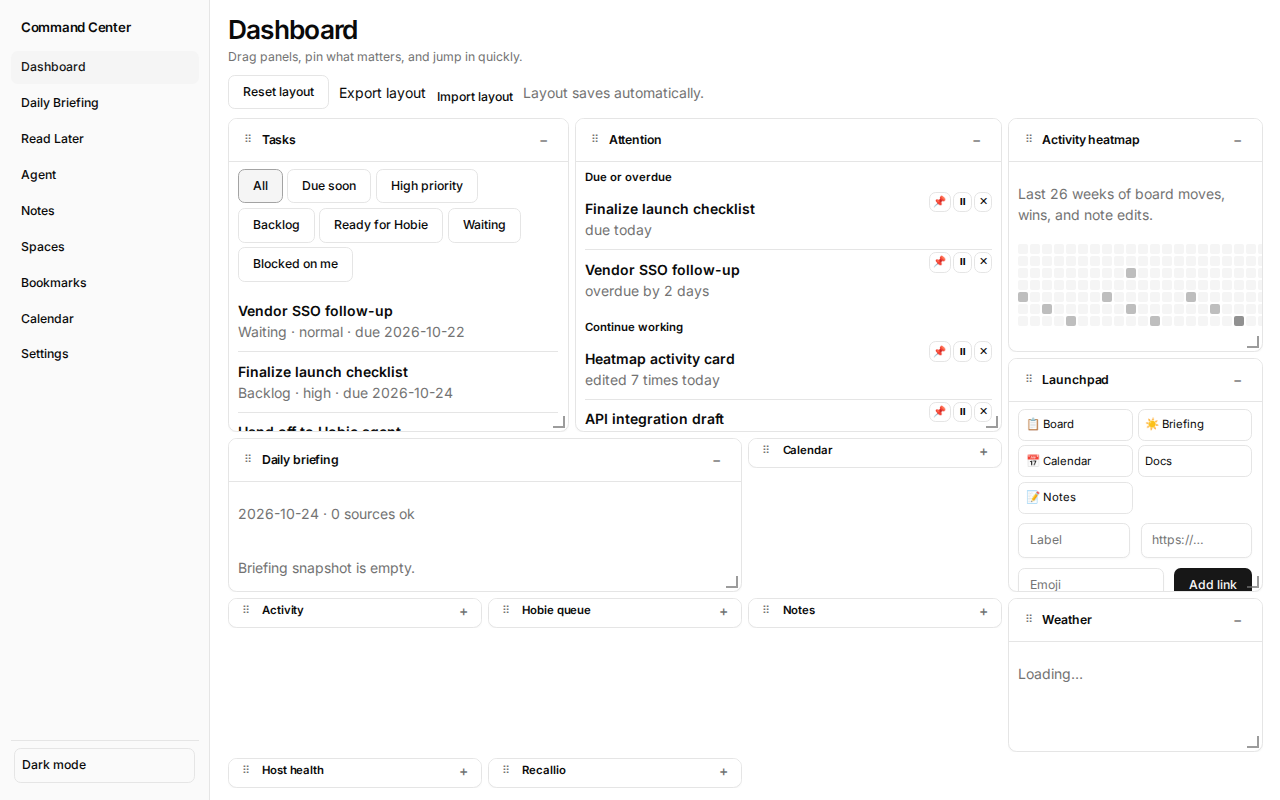
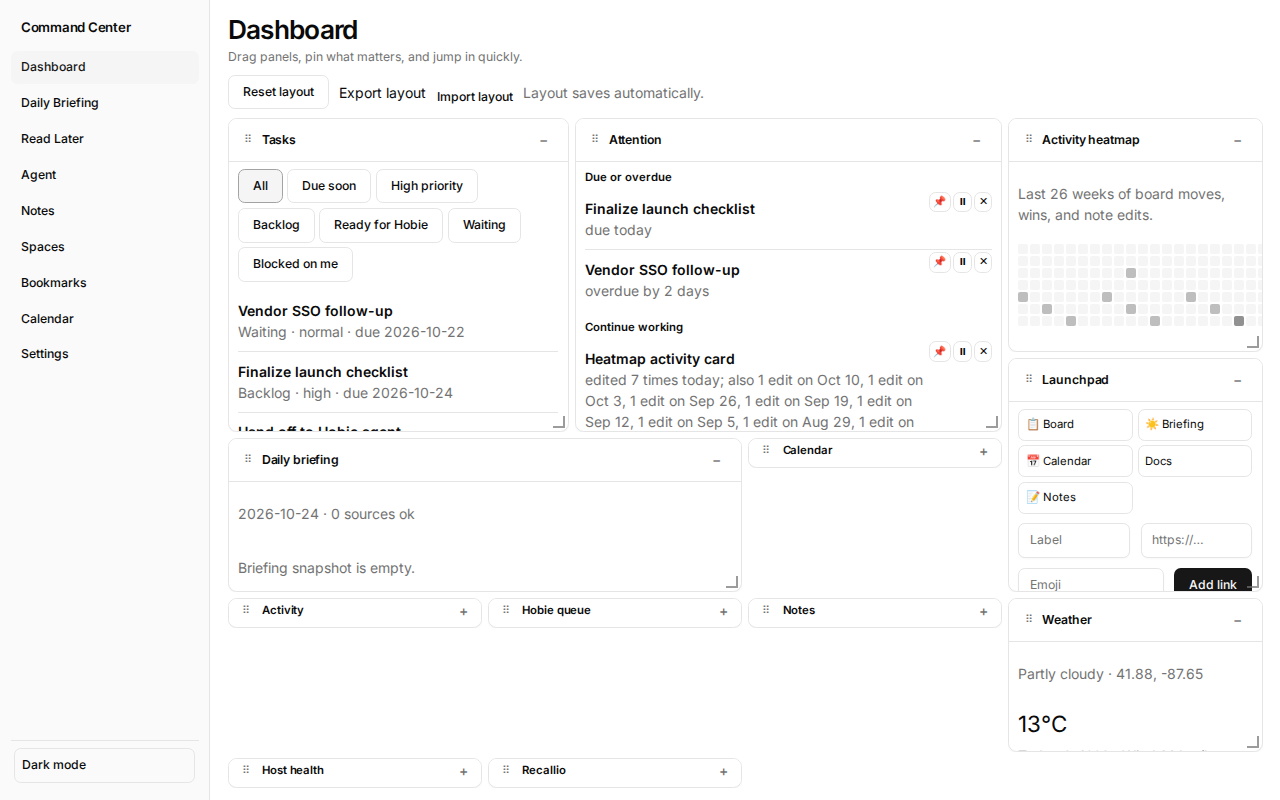
Attention: dedupe continue sessions per item; taller capture
Merge older sessions into one continue row; fix worked-on wording;
attention screenshot h:20 with Rediscover reason visible.

Changed region(s): [[0.4375, 0.4688, 0.7812, 0.5312], [0.7812, 0.8125, 0.8438, 0.9062], [0.875, 0.8125, 0.9375, 0.8438]]

diff --git a/apps/server/src/attention/sections.ts b/apps/server/src/attention/sections.ts
@@ -2,7 +2,7 @@ import { DONE, type BoardCard } from "../board/types";
 import type { KnowledgeNote, KnowledgeSource } from "../notes/store";
 import type { Win } from "../wins/types";
 import { pickRediscover, daysBetween, type StaleCandidate } from "./rediscover";
-import { buildSessions, sessionPrimaryItem, sessionReason } from "./sessions";
+import { buildSessions, mergedSessionReason, sessionPrimaryItem, type WorkSession } from "./sessions";
 import { applyPinnedFirst, takeSectionItems } from "./rank";
 import type { AttentionItem, AttentionSection, TimelineEvent } from "./types";
 
@@ -110,12 +110,25 @@ export function composeAttentionSections(input: ComposeInput): AttentionSection[
   });
 
   const sessions = buildSessions(input.timeline).sort((a, b) => b.end.localeCompare(a.end));
-  const continueItems: AttentionItem[] = [];
+  const sessionsByItem = new Map<string, WorkSession[]>();
   for (const session of sessions) {
     const primary = sessionPrimaryItem(session);
     const id = primary.kind === "note" ? `note:${primary.refId}` : `card:${primary.refId}`;
+    const list = sessionsByItem.get(id) ?? [];
+    list.push(session);
+    sessionsByItem.set(id, list);
+  }
+  const continueItems: AttentionItem[] = [];
+  const grouped = [...sessionsByItem.entries()]
+    .map(([id, itemSessions]) => ({
+      id,
+      sessions: itemSessions.sort((a, b) => b.end.localeCompare(a.end)),
+    }))
+    .sort((a, b) => b.sessions[0]!.end.localeCompare(a.sessions[0]!.end));
+  for (const { id, sessions: itemSessions } of grouped) {
     if (used.has(id)) continue;
-    const reason = sessionReason(session, input.todayYmd, input.tz);
+    const primary = sessionPrimaryItem(itemSessions[0]!);
+    const reason = mergedSessionReason(itemSessions, input.todayYmd, input.tz);
     if (primary.kind === "note") {
       const note = input.notes.find((n) => n.id === primary.refId);
       if (note) continueItems.push(noteItem(note, reason));

diff --git a/apps/server/src/attention/sessions.ts b/apps/server/src/attention/sessions.ts
@@ -37,8 +37,31 @@ export function sessionReason(session: WorkSession, todayYmd: string, tz: string
   if (day === todayYmd) {
     return count === 1 ? "edited once today" : `edited ${count} times today`;
   }
+  const dateLabel = new Intl.DateTimeFormat("en-US", { timeZone: tz, month: "short", day: "numeric" }).format(
+    new Date(session.end),
+  );
   const when = new Date(session.end).toLocaleString(undefined, { month: "short", day: "numeric", hour: "numeric", minute: "2-digit" });
-  return count === 1 ? `worked on at ${when}` : `${count} edits ending ${when}`;
+  return count === 1 ? `worked on ${dateLabel}` : `${count} edits ending ${when}`;
+}
+
+function sessionSummaryLine(session: WorkSession, todayYmd: string, tz: string): string {
+  const count = session.events.length;
+  const day = new Intl.DateTimeFormat("en-CA", { timeZone: tz }).format(new Date(session.end));
+  if (day === todayYmd) return count === 1 ? "1 edit earlier today" : `${count} edits earlier today`;
+  const dateLabel = new Intl.DateTimeFormat("en-US", { timeZone: tz, month: "short", day: "numeric" }).format(
+    new Date(session.end),
+  );
+  return count === 1 ? `1 edit on ${dateLabel}` : `${count} edits on ${dateLabel}`;
+}
+
+/** Merge older sessions into the reason for the most recent session on the same item. */
+export function mergedSessionReason(sessions: WorkSession[], todayYmd: string, tz: string): string {
+  const sorted = [...sessions].sort((a, b) => b.end.localeCompare(a.end));
+  const latest = sorted[0]!;
+  let reason = sessionReason(latest, todayYmd, tz);
+  if (sorted.length === 1) return reason;
+  const also = sorted.slice(1).map((s) => sessionSummaryLine(s, todayYmd, tz));
+  return `${reason}; also ${also.join(", ")}`;
 }
 
 export function sessionPrimaryItem(session: WorkSession): TimelineEvent {

diff --git a/apps/server/scripts/capture-ui-screenshots.ts b/apps/server/scripts/capture-ui-screenshots.ts
@@ -20,7 +20,7 @@ async function putPackedTallAttentionLayout(baseUrl: string) {
   if (!get.ok) throw new Error(`layout GET ${get.status}`);
   const { layout } = (await get.json()) as { layout: { panels: Array<Record<string, unknown>> } };
   const attention = layout.panels.find((p) => p.id === "attention");
-  if (attention) Object.assign(attention, { x: 4, y: 0, w: 5, h: 12, collapsed: false });
+  if (attention) Object.assign(attention, { x: 4, y: 0, w: 5, h: 20, collapsed: false });
   const put = await fetch(`${baseUrl}/api/dashboard-layout`, {
     method: "PUT",
     headers: { "content-type": "application/json", "x-ah": "1" },
@@ -167,9 +167,13 @@ const DASHBOARD_V1_SHOTS: Shot[] = [
       });
       await page.locator('.dashboard-item[data-panel-id="attention"]').scrollIntoViewIfNeeded();
       for (const name of ["Due or overdue", "Continue working", "On this day", "Rediscover"]) {
-        const heading = page.getByRole("heading", { name });
-        await heading.waitFor({ state: "visible", timeout: 20_000 });
+        await page.getByRole("heading", { name }).waitFor({ state: "visible", timeout: 20_000 });
       }
+      const rediscover = page.locator(".attention-block").filter({
+        has: page.getByRole("heading", { name: "Rediscover" }),
+      });
+      await rediscover.locator(".attention-reason").first().waitFor({ state: "visible", timeout: 20_000 });
+      await rediscover.getByText(/untouched for \d+ days/).first().waitFor({ state: "visible", timeout: 20_000 });
     },
   },
   {

diff --git a/apps/server/test/dashboard-v1.test.ts b/apps/server/test/dashboard-v1.test.ts
@@ -68,6 +68,36 @@ test("attention: sessions split at 45 minute boundary", () => {
   assert.equal(sessions[0]!.events.length, 2);
 });
 
+test("attention: continue working dedupes the same card across sessions", () => {
+  const cardId = "heatmap-card";
+  const timeline = [
+    ...Array.from({ length: 7 }, (_, i) => ({
+      at: `2026-10-24T10:${String(i * 5).padStart(2, "0")}:00.000Z`,
+      kind: "card" as const,
+      refId: cardId,
+      title: "Heatmap activity card",
+    })),
+    { at: "2026-10-10T14:00:00.000Z", kind: "card" as const, refId: cardId, title: "Heatmap activity card" },
+  ];
+  const sections = composeAttentionSections({
+    todayYmd: "2026-10-24",
+    tz: "UTC",
+    nowMs: Date.parse("2026-10-24T18:00:00.000Z"),
+    cards: [card({ id: cardId, title: "Heatmap activity card" })],
+    notes: [],
+    sources: [],
+    wins: [],
+    timeline,
+    pinned: [],
+    hidden: new Set(),
+    isSnoozed: () => false,
+  });
+  const continueItems = sections.find((s) => s.id === "continue")!.items;
+  assert.equal(continueItems.filter((i) => i.id === `card:${cardId}`).length, 1);
+  assert.match(continueItems[0]!.reason, /edited 7 times today/);
+  assert.match(continueItems[0]!.reason, /also 1 edit on Oct 10/);
+});
+
 test("attention: dedupes items across sections and limits to three", () => {
   const sections = composeAttentionSections({
     todayYmd: "2026-10-24",
